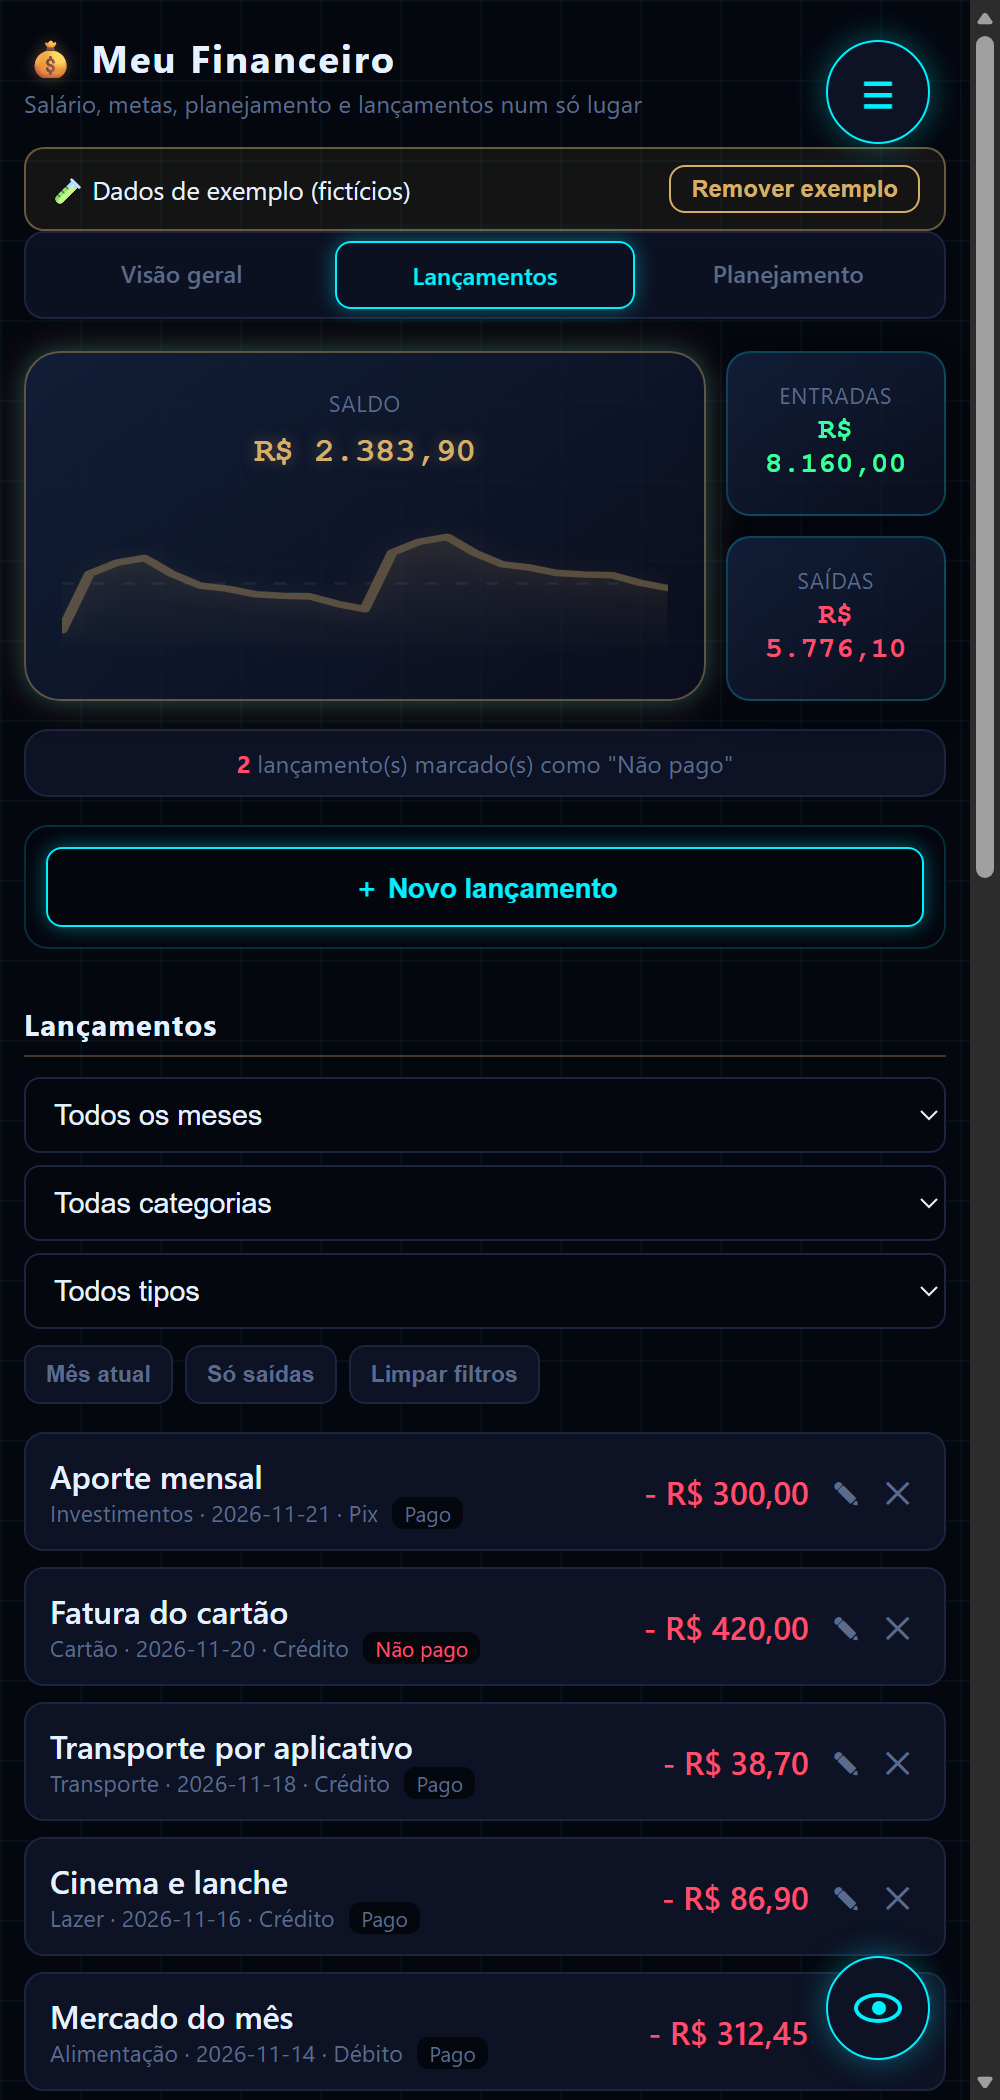
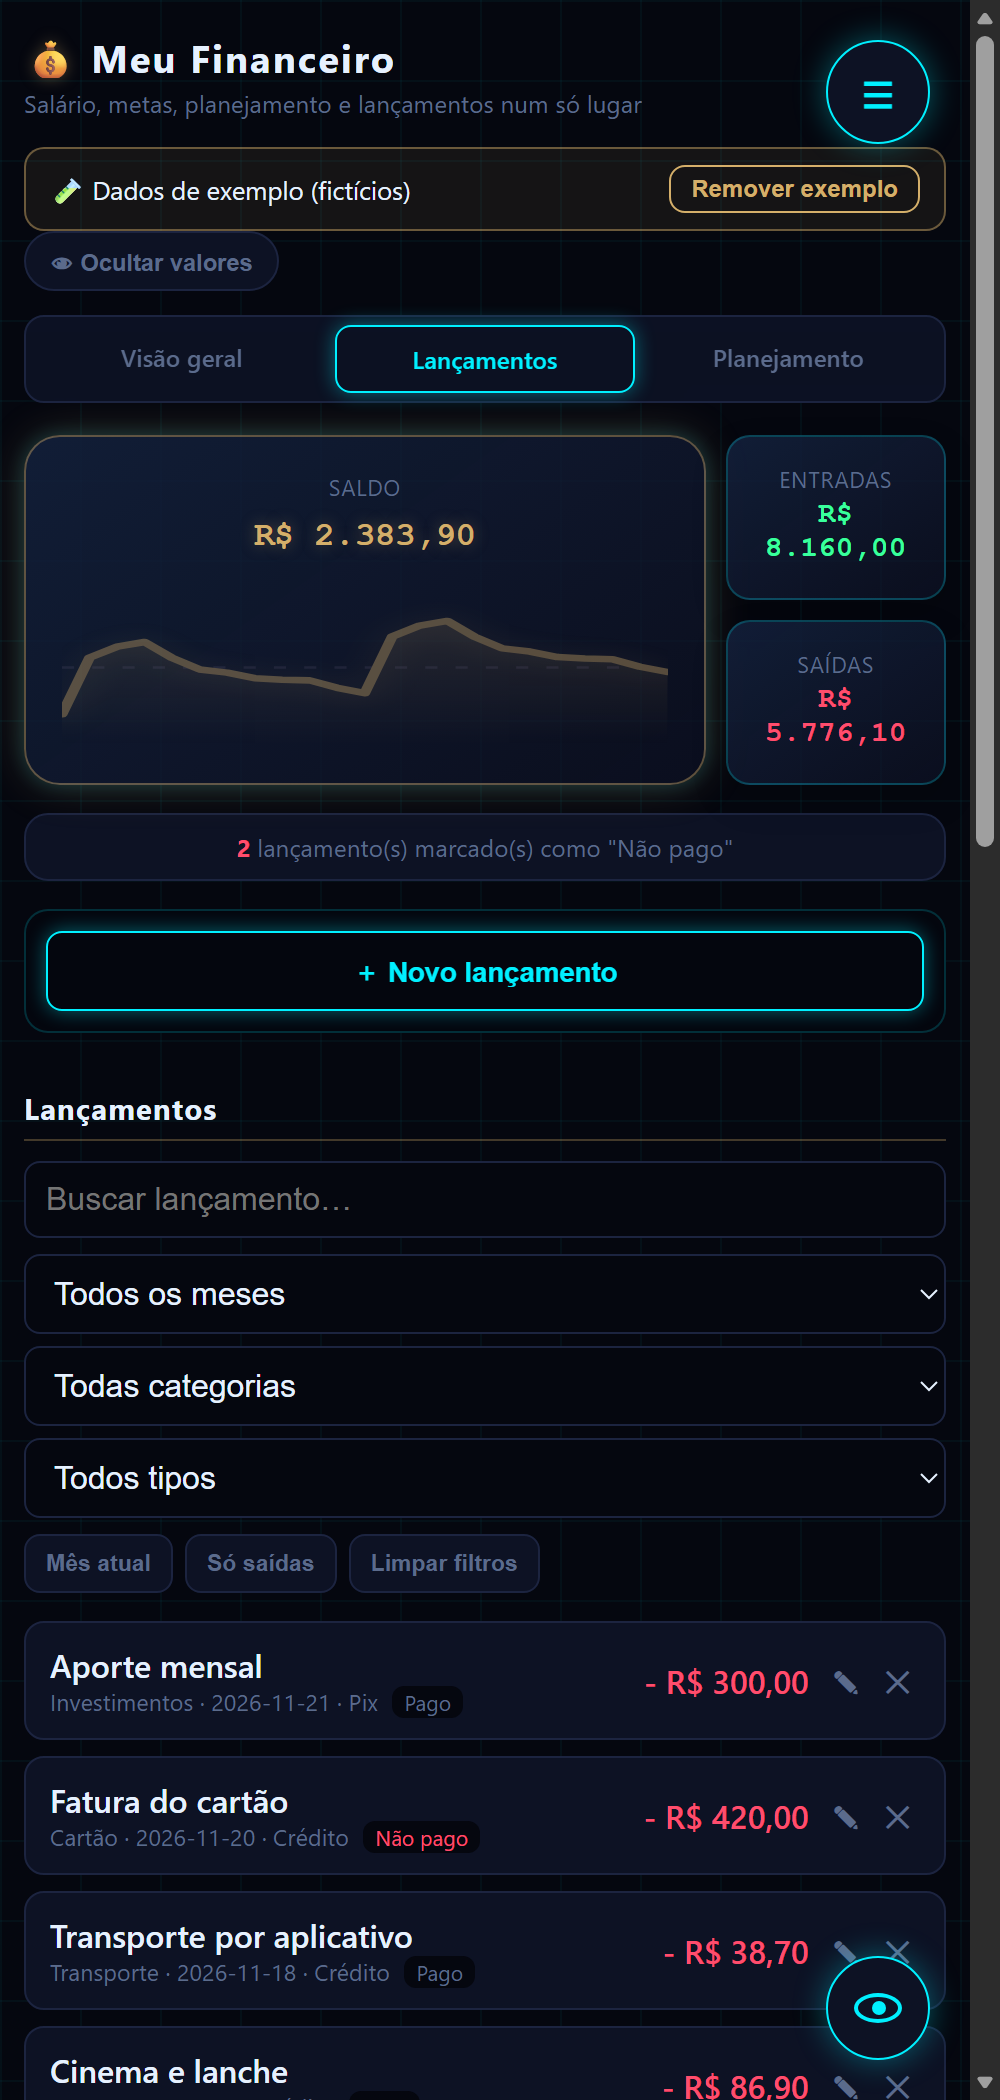
README com instalação no iPhone e novas capturas de tela

diff --git a/README.md b/README.md
@@ -1,32 +1,44 @@
 # Meu Financeiro
 
-Aplicativo web de **controle financeiro pessoal**: visão geral do mês, lançamentos de entradas e saídas, metas (reserva e patrimônio) e planejamento por categoria. Funciona direto no navegador, sem conta e sem servidor: os dados ficam só no seu aparelho.
+Aplicativo web de **controle financeiro pessoal**: visão geral do mês, lançamentos de entradas e saídas, metas (reserva e patrimônio), planejamento por categoria e evolução dos últimos 6 meses. Funciona direto no navegador, sem conta e sem servidor: os dados ficam só no seu aparelho.
 
 **Experimente:** <https://nevessdhiego-design.github.io/meu-financeiro/?demo> (o `?demo` carrega dados de exemplo, todos fictícios).
 
 <p align="center">
-  <img src="docs/telas/visao-geral.png" alt="Visão geral: saldo planejado, metas e acompanhamento do cartão" width="30%">
-  <img src="docs/telas/lancamentos.png" alt="Lançamentos: saldo do mês, filtros e lista" width="30%">
-  <img src="docs/telas/planejamento.png" alt="Planejamento: orçamento restante por categoria" width="30%">
+  <img src="docs/telas/visao-geral.png" alt="Visão geral: saldo planejado, metas, cartão e evolução dos últimos 6 meses" width="24%">
+  <img src="docs/telas/lancamentos.png" alt="Lançamentos: saldo do mês, busca, filtros e lista" width="24%">
+  <img src="docs/telas/planejamento.png" alt="Planejamento: orçamento restante por categoria" width="24%">
+  <img src="docs/telas/privacidade.png" alt="Modo privacidade: valores borrados na tela" width="24%">
 </p>
 
 ## O que ele faz
 
-- **Visão geral:** recursos e despesas fixas do mês, saldo planejado, progresso da reserva de emergência e da meta de patrimônio, uso do teto do cartão e parcelas restantes do celular.
-- **Lançamentos:** cadastro, edição e exclusão; filtros por mês, categoria e tipo; indicação de lançamentos não pagos; gráfico de saldo e gastos por categoria.
+- **Visão geral:** recursos e despesas fixas do mês, saldo planejado, progresso da reserva e da meta de patrimônio, uso do teto do cartão, parcelas restantes e gráfico de entradas x saídas dos últimos 6 meses.
+- **Lançamentos:** cadastro, edição e exclusão; **busca por texto** (sem diferenciar acento ou maiúsculas); filtros por mês, categoria e tipo; indicação de lançamentos não pagos; gráfico de saldo e gastos por categoria.
 - **Planejamento:** orçamento restante por categoria e configuração de salário, benefícios, metas e dias úteis.
-- **Dados:** importação e exportação de planilha (`.xlsx`), backup e restauração em JSON (com prévia antes de gravar) e botão para limpar os lançamentos.
+- **Modo privacidade:** um toque borra todos os valores na tela (útil em lugares públicos); a escolha fica salva.
+- **Backup:** exporta um JSON pela **folha de compartilhar** do celular (Arquivos, iCloud Drive etc.) ou por download no computador, avisa quando o último backup está velho e restaura com prévia antes de gravar.
+- **Planilhas:** importação e exportação de `.xlsx`.
 - **PWA:** `manifest` e *service worker* para instalar na tela inicial e abrir sem internet.
+
+## Instalar no iPhone
+
+1. Abra <https://nevessdhiego-design.github.io/meu-financeiro/> no **Safari** (precisa ser o Safari).
+2. Toque em **Compartilhar** (o quadrado com a seta para cima) e em **Adicionar à Tela de Início**.
+3. Abra pelo novo ícone: o app roda em tela cheia e guarda os dados no próprio aparelho.
+
+Os dados do app instalado ficam separados dos do Safari, então **faça o backup antes de instalar** se você já usava o site no navegador e restaure depois pelo menu ☰. No Android, use o Chrome (menu ⋮, **Instalar app**).
 
 ## Como foi feito
 
 | Parte | Tecnologia |
 |---|---|
-| Interface | HTML, CSS e JavaScript puros (sem framework e sem *build*), em `index.html`, `css/styles.css` e `js/app.js` |
+| Interface | HTML, CSS e JavaScript puros (sem framework e sem *build*): `index.html`, `css/styles.css`, `js/app.js` |
+| Lógica pura | `js/lib.js` (formatação, importação, totais por mês, busca, status do backup), sem DOM e testável no Node |
 | Armazenamento | `localStorage` do navegador |
 | Planilhas | [SheetJS](https://sheetjs.com/) por CDN, com verificação de integridade (SRI) |
 | API opcional | Python, FastAPI e SQLite, em `backend/` (veja o [README do backend](backend/README.md)) |
-| Testes | `pytest` na API (13 testes), executados na CI do GitHub |
+| Testes | `node --test` na lógica (12 testes) e `pytest` na API (13 testes), ambos na CI do GitHub |
 
 Decisões que valem destacar:
 
@@ -34,6 +46,7 @@ Decisões que valem destacar:
 - **Sem dependência de servidor:** a API existe para a próxima etapa (sincronização entre aparelhos), mas o app não precisa dela.
 - **Segurança na interface:** tudo o que vem de planilha ou de backup é escapado antes de ir para o HTML.
 - **Fuso horário correto:** datas e meses usam o horário local, não UTC.
+- **Pensado para o celular:** campos de 16 px (o Safari não dá zoom ao digitar), teclado decimal no valor e pedido de armazenamento persistente.
 
 ## Como rodar
 
@@ -43,9 +56,15 @@ O app é estático. Na pasta do projeto:
 python -m http.server 8000
 ```
 
-Abra `http://localhost:8000/?demo` no navegador.
+Abra `http://localhost:8000/?demo` no navegador. Atalhos úteis na URL: `?demo` (dados de exemplo), `&tab=lanc` ou `&tab=plan` (abre a aba) e `&privacidade` (valores ocultos).
 
-Para a API e os testes:
+Testes da lógica (precisa do Node 20 ou superior):
+
+```powershell
+node --test tests/lib.test.js
+```
+
+API e testes da API:
 
 ```powershell
 cd backend
@@ -60,16 +79,16 @@ A documentação interativa da API fica em `http://127.0.0.1:8000/docs`.
 
 ## Limitações conhecidas
 
-- Os dados ficam só no navegador: trocar de aparelho ou limpar os dados do site apaga tudo. Use o **Backup JSON** com regularidade.
+- Os dados ficam só no navegador: trocar de aparelho, limpar os dados do site ou desinstalar o app apaga tudo. Use o **Backup** com regularidade.
 - A API ainda **não tem autenticação**; por isso não está conectada ao app nem publicada (detalhes no README do backend).
 - A importação de planilha espera colunas de data, descrição, valor, tipo, categoria e forma de pagamento; o app mostra uma prévia e só grava depois de você confirmar.
-- Não há testes automatizados da interface; a conferência é manual.
+- Não há testes automatizados da interface (só da lógica em `js/lib.js` e da API); a conferência da tela é manual.
 
 ## Próximos passos
 
 - Autenticação e sincronização (por exemplo, Supabase com Auth e RLS, ou a API própria com login).
+- Orçamento por categoria editável e lançamentos recorrentes.
 - Testes automatizados da interface.
-- Gráficos de evolução mensal e metas por categoria.
 
 ## Licença
 
